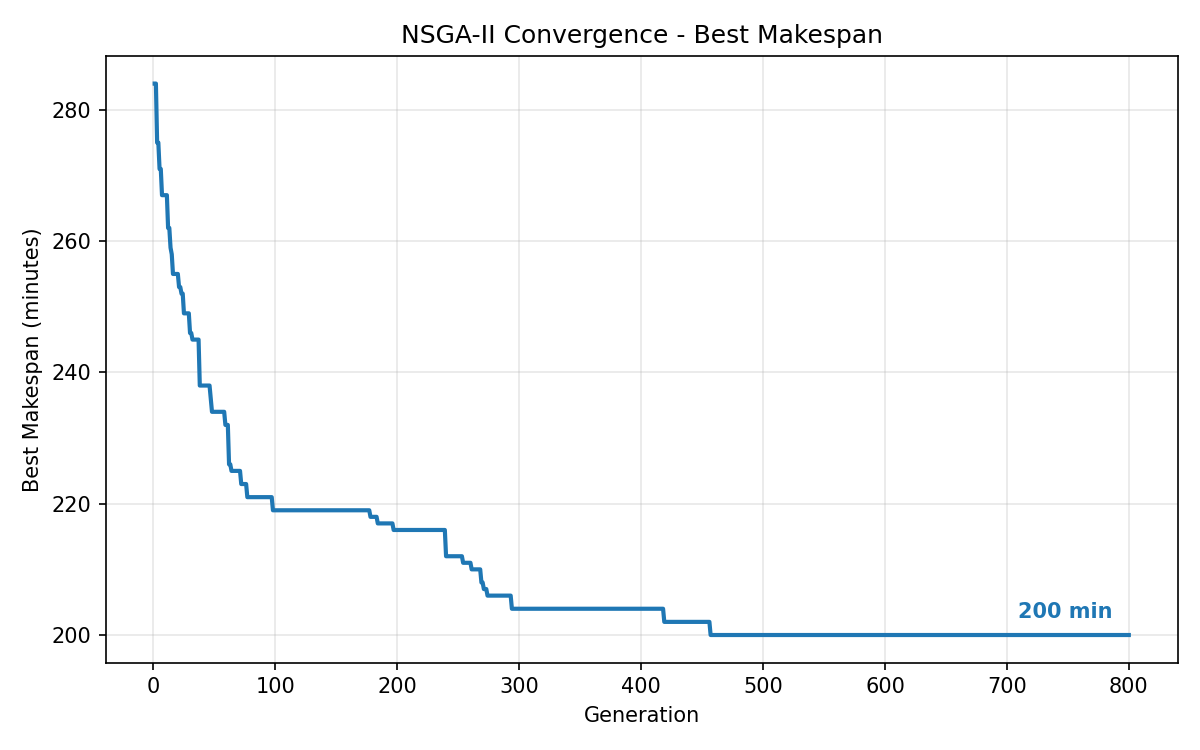
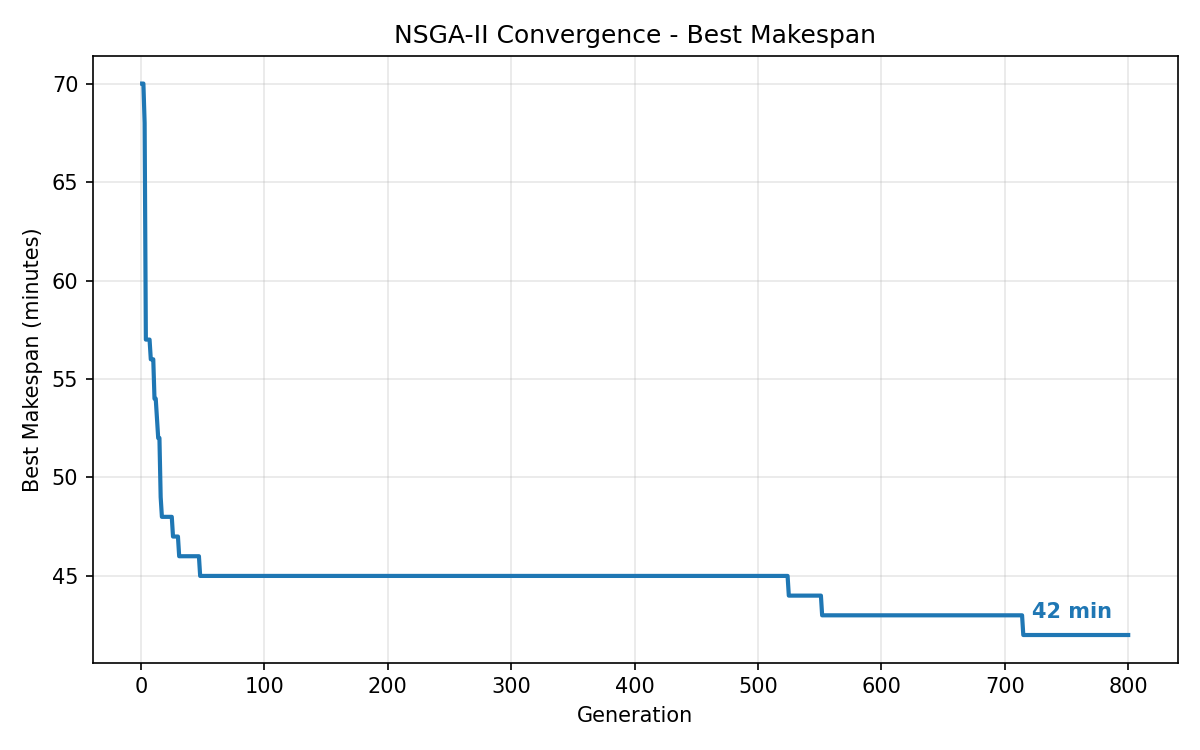
Use real Brandimarte benchmark instances instead of random FJSP
Adds a parser for the standard Hurink .fjs text format and the
Brandimarte (1993) mk01-mk10 benchmark instances (sourced from
SchedulingLab/fjsp-instances), replacing the invalid mock_mk01.fjs
placeholder. The scheduler now defaults to solving mk01 (10 jobs,
6 machines, 55 operations); --random restores the previous synthetic
instance generator, and --instance selects any of mk01-mk10.

diff --git a/nsga2_fjsp_energy.py b/nsga2_fjsp_energy.py
@@ -56,6 +56,7 @@ from pymoo.termination import get_termination
 SCRIPT_DIR = Path(__file__).resolve().parent
 PRICE_CSV = SCRIPT_DIR / "belgium_prices_feb2022.csv"
 OUTPUT_DIR = SCRIPT_DIR / "outputs"
+BENCHMARK_DIR = SCRIPT_DIR / "benchmarks" / "brandimarte"
 
 
 def load_price_series(csv_path: Path) -> np.ndarray:
@@ -117,6 +118,50 @@ def generate_fjsp_instance(rng, n_jobs=15, n_machines=4, min_ops=5, max_ops=10,
             for m in machines:
                 proc_times[m] = rng.randint(min_time, max_time)
             operations.append((job_id, op_id, proc_times))
+    return operations, n_jobs, n_machines
+
+
+def parse_fjs_instance(path):
+    """
+    Parse a Flexible Job-Shop Scheduling instance in the standard (Hurink)
+    ``.fjs``/text format used by the Brandimarte (1993) benchmark suite:
+
+        <n_jobs> <n_machines>
+        <n_ops_job1> <n_alt_op1> <machine> <time> [<machine> <time> ...] <n_alt_op2> ...
+        ...(one line per job)
+
+    Machine indices in the file are 0-based. Returns the same
+    ``(operations, n_jobs, n_machines)`` structure as
+    `generate_fjsp_instance`, so it is a drop-in replacement for random
+    instance generation.
+
+    Parameters
+    ----------
+    path : Path
+        Path to the instance file.
+
+    Returns
+    -------
+    operations : list[tuple[int, int, list[int | None]]]
+    n_jobs, n_machines : int
+    """
+    lines = [line.split() for line in Path(path).read_text().strip().splitlines()]
+    n_jobs, n_machines = int(lines[0][0]), int(lines[0][1])
+
+    operations = []
+    for job_id in range(n_jobs):
+        toks = [int(t) for t in lines[1 + job_id]]
+        idx = 0
+        n_ops = toks[idx]; idx += 1
+        for op_id in range(n_ops):
+            n_alt = toks[idx]; idx += 1
+            proc_times = [None] * n_machines
+            for _ in range(n_alt):
+                machine, time = toks[idx], toks[idx + 1]
+                idx += 2
+                proc_times[machine] = time
+            operations.append((job_id, op_id, proc_times))
+
     return operations, n_jobs, n_machines
 
 
@@ -415,8 +460,17 @@ def plot_pareto_front(F, out_path):
     plt.close(fig)
 
 
+BENCHMARK_CHOICES = [f"mk{i:02d}" for i in range(1, 11)]
+
+
 def parse_args():
     parser = argparse.ArgumentParser(description="NSGA-II energy-aware FJSP mini project")
+    parser.add_argument("--instance", choices=BENCHMARK_CHOICES, default="mk01",
+                         help="Brandimarte (1993) FJSP benchmark instance to solve "
+                              "(default: mk01, 10 jobs / 6 machines). Ignored if --random is set.")
+    parser.add_argument("--random", action="store_true",
+                         help="Generate a random FJSP instance instead of using a benchmark "
+                              "(uses --n-jobs/--n-machines/--min-ops/--max-ops/--min-time/--max-time).")
     parser.add_argument("--n-jobs", type=int, default=15)
     parser.add_argument("--n-machines", type=int, default=4)
     parser.add_argument("--min-ops", type=int, default=5)
@@ -433,14 +487,21 @@ def main():
     args = parse_args()
     OUTPUT_DIR.mkdir(exist_ok=True)
 
-    rng = random.Random(args.seed)
     price_array = load_price_series(PRICE_CSV)
 
-    operations, n_jobs, n_machines = generate_fjsp_instance(
-        rng, n_jobs=args.n_jobs, n_machines=args.n_machines,
-        min_ops=args.min_ops, max_ops=args.max_ops,
-        min_time=args.min_time, max_time=args.max_time,
-    )
+    if args.random:
+        rng = random.Random(args.seed)
+        operations, n_jobs, n_machines = generate_fjsp_instance(
+            rng, n_jobs=args.n_jobs, n_machines=args.n_machines,
+            min_ops=args.min_ops, max_ops=args.max_ops,
+            min_time=args.min_time, max_time=args.max_time,
+        )
+        instance_label = f"random (seed={args.seed})"
+    else:
+        instance_path = BENCHMARK_DIR / f"{args.instance}.txt"
+        operations, n_jobs, n_machines = parse_fjs_instance(instance_path)
+        instance_label = f"Brandimarte {args.instance}"
+
     problem = EnergyAwareFJSP(operations, n_jobs, n_machines, price_array)
 
     algorithm = NSGA2WithLocalSearch(pop_size=args.pop_size)
@@ -469,6 +530,7 @@ def main():
     summary_lines = [
         "NSGA-II Energy-Aware FJSP - Run Summary",
         "========================================",
+        f"Instance: {instance_label}",
         f"Jobs: {n_jobs}, Machines: {n_machines}, Operations: {problem.n_ops}",
         f"Population size: {args.pop_size}, Generations: {args.n_gen}, Seed: {args.seed}",
         f"Pareto front size: {len(F_unique)}",

diff --git a/README.md b/README.md
@@ -50,7 +50,13 @@ below for what is simplified.
   search ("memetic" [3]) step applied to every offspring each generation —
   alternately trying machine re-assignments and sequencing-key swaps,
   keeping any move that Pareto-dominates the current solution.
-- **Data**: `belgium_prices_feb2022.csv`, preprocessed from the raw
+- **Benchmark instances**: by default, the scheduler solves real Brandimarte
+  (1993) [4] FJSP benchmark instances (`mk01`–`mk10`), parsed by
+  `parse_fjs_instance` from the standard Hurink `.fjs` text format in
+  `benchmarks/brandimarte/` [6] — the same benchmark family used in [1]. A
+  random-instance generator (`generate_fjsp_instance`) is still available
+  via `--random` for experimenting with other problem sizes.
+- **Energy data**: `belgium_prices_feb2022.csv`, preprocessed from the raw
   ENTSO-E day-ahead price export (`belgium_prices_feb2022_raw.csv`) [5] by
   `parsing_data.py` into a clean `(timestamp, price_eur_per_kWh)` series,
   then resampled to per-minute resolution so energy cost can be integrated
@@ -62,6 +68,7 @@ below for what is simplified.
 |---|---|
 | `nsga2_fjsp_energy.py` | Main script: problem definition, NSGA-II + local search, plotting |
 | `parsing_data.py` | One-off preprocessing of the raw ENTSO-E price export |
+| `benchmarks/brandimarte/mk01.txt` … `mk10.txt` | Brandimarte (1993) FJSP benchmark instances [4], standard Hurink `.fjs` text format |
 | `belgium_prices_feb2022_raw.csv` | Raw ENTSO-E day-ahead prices (EUR/MWh) |
 | `belgium_prices_feb2022.csv` | Cleaned prices (EUR/kWh, parsed timestamps) |
 | `outputs/` | Generated figures, Pareto front CSV, and run summary (created on run) |
@@ -73,15 +80,20 @@ pip install -r requirements.txt
 python nsga2_fjsp_energy.py
 ```
 
-Optional arguments (all have defaults matching the reported results below):
+By default this solves the `mk01` benchmark instance (10 jobs, 6 machines,
+55 operations) for 800 generations. Other options:
 
 ```bash
-python nsga2_fjsp_energy.py --n-jobs 15 --n-machines 4 --n-gen 800 --pop-size 20 --seed 42
+# Solve a different Brandimarte benchmark instance
+python nsga2_fjsp_energy.py --instance mk05 --n-gen 800 --pop-size 20 --seed 42
+
+# Fall back to a random instance instead of a benchmark
+python nsga2_fjsp_energy.py --random --n-jobs 15 --n-machines 4 --n-gen 800 --seed 42
 ```
 
-Both the FJSP instance generation and the NSGA-II run are seeded
-(`--seed`), so a given seed reproduces the same instance and the same
-Pareto front.
+`--instance` accepts `mk01`–`mk10`. Both the instance choice and the
+NSGA-II run are seeded (`--seed`), so a given configuration reproduces the
+same Pareto front.
 
 ## Outputs
 
@@ -109,11 +121,13 @@ Running the script populates `outputs/` with:
 This project reproduces the *concept* of a memetic NSGA-II for energy-cost-
 aware FJSP, not the paper's full experimental apparatus:
 
-- **Benchmark instances**: the paper validates on the Brandimarte (1993)
-  `mk01`–`mk15` FJSP benchmarks [4] with an exact Gurobi baseline; this
-  repository generates random FJSP instances (`generate_fjsp_instance`)
-  rather than parsing those benchmark files (`mock_mk01.fjs` is included as
-  a sample of that format but is not currently parsed).
+- **Benchmark coverage**: the paper validates on all fifteen Brandimarte
+  (1993) `mk01`–`mk15` FJSP benchmarks [4] with an exact Gurobi baseline;
+  this repository includes and parses `mk01`–`mk10` (the ten instances
+  small enough to solve quickly for a mini project — `mk11`–`mk15` are
+  substantially larger and, per [1], pushed even an exact solver to its
+  memory limits) and does not run the paper's exact-solver (Gurobi)
+  baseline for comparison.
 - **Price data resolution**: the paper models RTP tariffs at hourly (and
   finer) resolution over the full multi-day planning horizon used in its
   experiments; this project uses a representative one-month hourly Belgian
@@ -154,3 +168,8 @@ https://doi.org/10.1007/BF02023073
 
 [5] ENTSO-E Transparency Platform. Day-ahead electricity prices, Belgium
 bidding zone, February 2022. https://transparency.entsoe.eu/
+
+[6] SchedulingLab. `fjsp-instances`: machine-readable Brandimarte (1993)
+FJSP benchmark files in the standard Hurink `.fjs` text format (source of
+`benchmarks/brandimarte/mk01.txt`–`mk10.txt` in this repository).
+https://github.com/SchedulingLab/fjsp-instances
